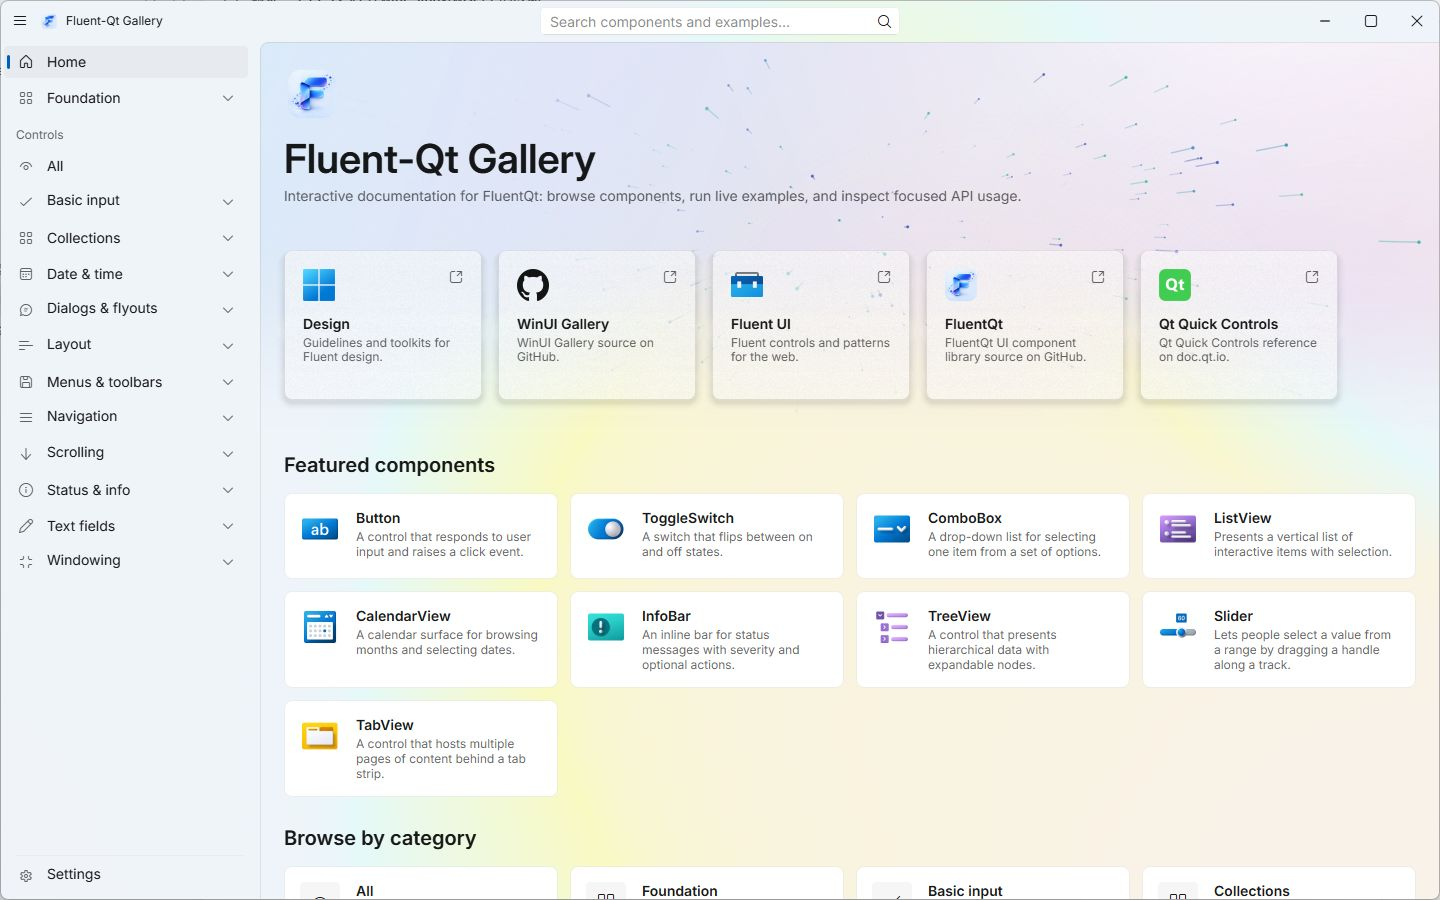
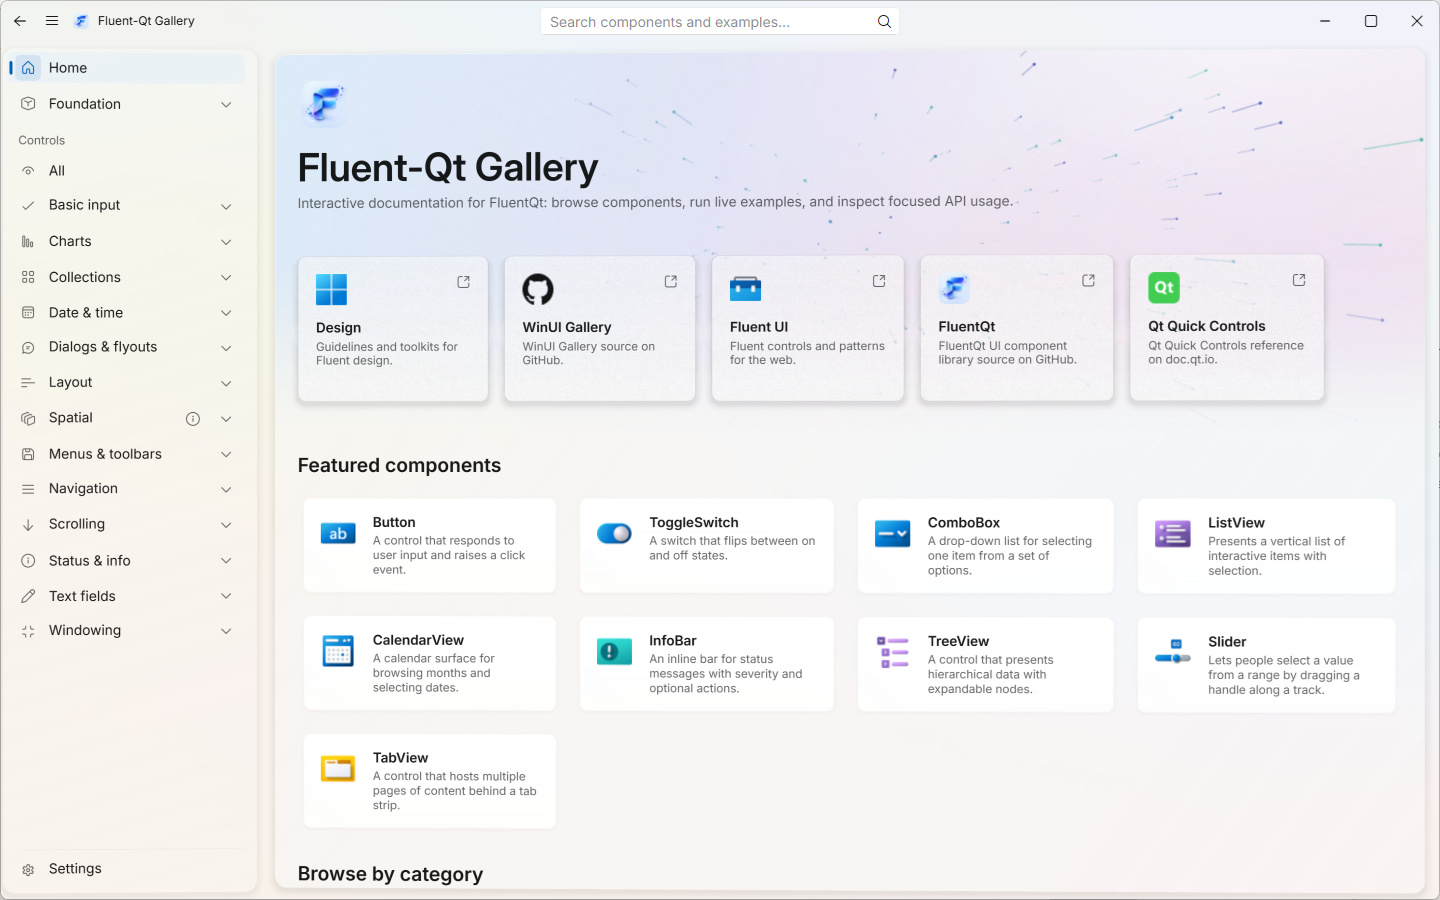
docs(site): refresh Windows 3D Gallery marketing assets

diff --git a/site/zh-CN/index.html b/site/zh-CN/index.html
@@ -25,7 +25,7 @@
     <meta property="og:url" content="https://calvinhxx.github.io/Fluent-Qt/zh-CN/">
     <meta property="og:locale" content="zh_CN">
     <meta property="og:locale:alternate" content="en_US">
-    <meta property="og:image" content="https://calvinhxx.github.io/Fluent-Qt/assets/og.png?v=bc0a71a1892e">
+    <meta property="og:image" content="https://calvinhxx.github.io/Fluent-Qt/assets/og.png?v=0df0210f651e">
     <meta property="og:image:type" content="image/png">
     <meta property="og:image:width" content="1731">
     <meta property="og:image:height" content="909">
@@ -36,7 +36,7 @@
       name="twitter:description"
       content="FluentQt（Fluent-Qt）是面向 Qt Widgets 的 C++17 Fluent UI 控件库，支持 Qt 5/6、可选 PySide6 绑定和 WebAssembly。在线体验 Gallery，查看 API 与接入示例。"
     >
-    <meta name="twitter:image" content="https://calvinhxx.github.io/Fluent-Qt/assets/og.png?v=bc0a71a1892e">
+    <meta name="twitter:image" content="https://calvinhxx.github.io/Fluent-Qt/assets/og.png?v=0df0210f651e">
     <meta name="twitter:image:alt" content="Fluent-Qt Gallery 项目预览，展示原生 Qt Widgets 控件。">
     <meta name="fluent-qt-cloudflare-token" content="faf445759813451ca2d7a0652139b292">
     <link rel="icon" href="../assets/app-icon.png?v=6bb48ccbdf19">
@@ -59,7 +59,7 @@
             ],
             "version": "1.9.1",
             "license": "https://github.com/calvinhxx/Fluent-Qt/blob/main/LICENSE",
-            "image": "https://calvinhxx.github.io/Fluent-Qt/assets/og.png?v=bc0a71a1892e",
+            "image": "https://calvinhxx.github.io/Fluent-Qt/assets/og.png?v=0df0210f651e",
             "inLanguage": "zh-CN",
             "sameAs": [
               "https://github.com/calvinhxx/Fluent-Qt",
@@ -228,9 +228,9 @@
               data-analytics-event="hero_visual_gallery"
             >
               <img
-                src="../assets/gallery/gallery-home-real.png?v=4ffb5f74ded2"
-                data-theme-src-light="../assets/gallery/gallery-home-real.png?v=4ffb5f74ded2"
-                data-theme-src-dark="../assets/gallery/gallery-home-dark.png?v=3f7c83c9a9f9"
+                src="../assets/gallery/gallery-home-real.png?v=b885a0fc143b"
+                data-theme-src-light="../assets/gallery/gallery-home-real.png?v=b885a0fc143b"
+                data-theme-src-dark="../assets/gallery/gallery-home-dark.png?v=a24d8882ccf6"
                 alt="Windows Mica 效果下的 Fluent-Qt Gallery 首页，展示控件分类和示例"
                 data-i18n-alt="images.hero"
                 width="1440"
@@ -340,7 +340,7 @@
             <div class="live-gallery-viewport">
               <img
                 class="live-gallery-poster"
-                src="../assets/gallery/gallery-hero-real.png?v=c95ba56bcffd"
+                src="../assets/gallery/gallery-hero-real.png?v=87543f4d70cf"
                 alt="C++ Web Gallery 加载前预览"
                 data-i18n-alt="images.webGallery"
                 width="1600"
@@ -500,9 +500,9 @@
           <div class="showcase-feature" data-reveal>
             <figure class="showcase-media">
               <img
-                src="../assets/gallery/gallery-button-real.png?v=1a157ef42b6b"
-                data-theme-src-light="../assets/gallery/gallery-button-real.png?v=1a157ef42b6b"
-                data-theme-src-dark="../assets/gallery/gallery-button-dark.png?v=74b53b0df684"
+                src="../assets/gallery/gallery-button-real.png?v=e9826ce22e52"
+                data-theme-src-light="../assets/gallery/gallery-button-real.png?v=e9826ce22e52"
+                data-theme-src-dark="../assets/gallery/gallery-button-dark.png?v=f0c29a7dbc02"
                 alt="Windows Mica 效果下的 Fluent-Qt Gallery Button 控件页面"
                 data-i18n-alt="images.button"
                 width="1440"
@@ -526,9 +526,9 @@
             <article>
               <figure class="showcase-media">
                 <img
-                  src="../assets/gallery/gallery-collections-real.png?v=05a7cc8069a1"
-                  data-theme-src-light="../assets/gallery/gallery-collections-real.png?v=05a7cc8069a1"
-                  data-theme-src-dark="../assets/gallery/gallery-collections-dark.png?v=b7442d6817ff"
+                  src="../assets/gallery/gallery-collections-real.png?v=a7e369fbdef4"
+                  data-theme-src-light="../assets/gallery/gallery-collections-real.png?v=a7e369fbdef4"
+                  data-theme-src-dark="../assets/gallery/gallery-collections-dark.png?v=49e756703117"
                   alt="Windows Mica 效果下的 Fluent-Qt Gallery 集合视图页面"
                   data-i18n-alt="images.collections"
                   width="1440"
@@ -542,9 +542,9 @@
             <article>
               <figure class="showcase-media">
                 <img
-                  src="../assets/gallery/gallery-home-real.png?v=4ffb5f74ded2"
-                  data-theme-src-light="../assets/gallery/gallery-home-real.png?v=4ffb5f74ded2"
-                  data-theme-src-dark="../assets/gallery/gallery-home-dark.png?v=3f7c83c9a9f9"
+                  src="../assets/gallery/gallery-home-real.png?v=b885a0fc143b"
+                  data-theme-src-light="../assets/gallery/gallery-home-real.png?v=b885a0fc143b"
+                  data-theme-src-dark="../assets/gallery/gallery-home-dark.png?v=a24d8882ccf6"
                   alt="Windows Mica 效果下的 Fluent-Qt Gallery 导航与窗口界面"
                   data-i18n-alt="images.system"
                   width="1440"

diff --git a/site/index.html b/site/index.html
@@ -25,7 +25,7 @@
     <meta property="og:url" content="https://calvinhxx.github.io/Fluent-Qt/">
     <meta property="og:locale" content="en_US">
     <meta property="og:locale:alternate" content="zh_CN">
-    <meta property="og:image" content="https://calvinhxx.github.io/Fluent-Qt/assets/og.png?v=bc0a71a1892e">
+    <meta property="og:image" content="https://calvinhxx.github.io/Fluent-Qt/assets/og.png?v=0df0210f651e">
     <meta property="og:image:type" content="image/png">
     <meta property="og:image:width" content="1731">
     <meta property="og:image:height" content="909">
@@ -36,7 +36,7 @@
       name="twitter:description"
       content="FluentQt (Fluent-Qt) is a C++17 Fluent UI library for Qt Widgets, with Qt 5/6, optional PySide6 bindings, and WebAssembly. Try the Gallery and setup examples."
     >
-    <meta name="twitter:image" content="https://calvinhxx.github.io/Fluent-Qt/assets/og.png?v=bc0a71a1892e">
+    <meta name="twitter:image" content="https://calvinhxx.github.io/Fluent-Qt/assets/og.png?v=0df0210f651e">
     <meta name="twitter:image:alt" content="Fluent-Qt Gallery project preview with native Qt Widgets controls.">
     <meta name="fluent-qt-cloudflare-token" content="faf445759813451ca2d7a0652139b292">
     <link rel="icon" href="assets/app-icon.png?v=6bb48ccbdf19">
@@ -59,7 +59,7 @@
             ],
             "version": "1.9.1",
             "license": "https://github.com/calvinhxx/Fluent-Qt/blob/main/LICENSE",
-            "image": "https://calvinhxx.github.io/Fluent-Qt/assets/og.png?v=bc0a71a1892e",
+            "image": "https://calvinhxx.github.io/Fluent-Qt/assets/og.png?v=0df0210f651e",
             "inLanguage": "en",
             "sameAs": [
               "https://github.com/calvinhxx/Fluent-Qt",
@@ -228,9 +228,9 @@
               data-analytics-event="hero_visual_gallery"
             >
               <img
-                src="assets/gallery/gallery-home-real.png?v=4ffb5f74ded2"
-                data-theme-src-light="assets/gallery/gallery-home-real.png?v=4ffb5f74ded2"
-                data-theme-src-dark="assets/gallery/gallery-home-dark.png?v=3f7c83c9a9f9"
+                src="assets/gallery/gallery-home-real.png?v=b885a0fc143b"
+                data-theme-src-light="assets/gallery/gallery-home-real.png?v=b885a0fc143b"
+                data-theme-src-dark="assets/gallery/gallery-home-dark.png?v=a24d8882ccf6"
                 alt="Fluent-Qt Gallery home on Windows with Mica, showing the control catalog and samples"
                 data-i18n-alt="images.hero"
                 width="1440"
@@ -340,7 +340,7 @@
             <div class="live-gallery-viewport">
               <img
                 class="live-gallery-poster"
-                src="assets/gallery/gallery-hero-real.png?v=c95ba56bcffd"
+                src="assets/gallery/gallery-hero-real.png?v=87543f4d70cf"
                 alt="C++ Web Gallery preview before loading"
                 data-i18n-alt="images.webGallery"
                 width="1600"
@@ -500,9 +500,9 @@
           <div class="showcase-feature" data-reveal>
             <figure class="showcase-media">
               <img
-                src="assets/gallery/gallery-button-real.png?v=1a157ef42b6b"
-                data-theme-src-light="assets/gallery/gallery-button-real.png?v=1a157ef42b6b"
-                data-theme-src-dark="assets/gallery/gallery-button-dark.png?v=74b53b0df684"
+                src="assets/gallery/gallery-button-real.png?v=e9826ce22e52"
+                data-theme-src-light="assets/gallery/gallery-button-real.png?v=e9826ce22e52"
+                data-theme-src-dark="assets/gallery/gallery-button-dark.png?v=f0c29a7dbc02"
                 alt="Button control page in Fluent-Qt Gallery on Windows with Mica"
                 data-i18n-alt="images.button"
                 width="1440"
@@ -526,9 +526,9 @@
             <article>
               <figure class="showcase-media">
                 <img
-                  src="assets/gallery/gallery-collections-real.png?v=05a7cc8069a1"
-                  data-theme-src-light="assets/gallery/gallery-collections-real.png?v=05a7cc8069a1"
-                  data-theme-src-dark="assets/gallery/gallery-collections-dark.png?v=b7442d6817ff"
+                  src="assets/gallery/gallery-collections-real.png?v=a7e369fbdef4"
+                  data-theme-src-light="assets/gallery/gallery-collections-real.png?v=a7e369fbdef4"
+                  data-theme-src-dark="assets/gallery/gallery-collections-dark.png?v=49e756703117"
                   alt="Collections page in Fluent-Qt Gallery on Windows with Mica"
                   data-i18n-alt="images.collections"
                   width="1440"
@@ -542,9 +542,9 @@
             <article>
               <figure class="showcase-media">
                 <img
-                  src="assets/gallery/gallery-home-real.png?v=4ffb5f74ded2"
-                  data-theme-src-light="assets/gallery/gallery-home-real.png?v=4ffb5f74ded2"
-                  data-theme-src-dark="assets/gallery/gallery-home-dark.png?v=3f7c83c9a9f9"
+                  src="assets/gallery/gallery-home-real.png?v=b885a0fc143b"
+                  data-theme-src-light="assets/gallery/gallery-home-real.png?v=b885a0fc143b"
+                  data-theme-src-dark="assets/gallery/gallery-home-dark.png?v=a24d8882ccf6"
                   alt="Navigation and window UI in Fluent-Qt Gallery on Windows with Mica"
                   data-i18n-alt="images.system"
                   width="1440"

diff --git a/tools/site/promo-assets.html b/tools/site/promo-assets.html
@@ -40,7 +40,8 @@
         box-shadow: 0 22px 4px -4px #193248, 0 35px 18px -10px #17304780;
       }
 
-      .readme-window img {
+      .readme-window :is(img, canvas) {
+        display: block;
         width: 1232px;
         height: 770px;
         border-radius: 24px;
@@ -163,7 +164,7 @@
   <body>
     <section class="readme" id="readme" aria-label="Gallery preview">
       <figure class="readme-window">
-        <img src="../../site/assets/gallery/gallery-home-real.png" width="1440" height="900" alt="Fluent-Qt Gallery home on Windows with Mica">
+        <img src="../../site/assets/gallery/gallery-home-real.png" width="1440" height="900" alt="Fluent-Qt Gallery home in 3D mode on Windows with Mica">
       </figure>
     </section>
     <section class="social" id="social" aria-label="Fluent-Qt">
@@ -175,7 +176,7 @@
       </div>
       <div class="product">
         <figure class="product-window">
-          <img src="../../site/assets/gallery/gallery-home-real.png" width="1440" height="900" alt="Fluent-Qt Gallery home on Windows with Mica">
+          <img src="../../site/assets/gallery/gallery-home-real.png" width="1440" height="900" alt="Fluent-Qt Gallery home in 3D mode on Windows with Mica">
         </figure>
       </div>
     </section>

diff --git a/tools/site/generate_promo_assets.py b/tools/site/generate_promo_assets.py
@@ -32,6 +32,20 @@ def main() -> int:
             page.goto((root / "tools/site/promo-assets.html").as_uri())
             page.evaluate("document.fonts.ready")
             page.evaluate("Promise.all([...document.images].map(image => image.decode()))")
+            # Choose high-quality downsampling at the framed image's final
+            # pixel size; keep the native PNG and output dimensions unchanged.
+            page.locator("#readme img").evaluate("""image => {
+                const canvas = document.createElement('canvas');
+                canvas.width = image.clientWidth;
+                canvas.height = image.clientHeight;
+                canvas.setAttribute('role', 'img');
+                canvas.setAttribute('aria-label', image.alt);
+                const context = canvas.getContext('2d');
+                context.imageSmoothingEnabled = true;
+                context.imageSmoothingQuality = 'high';
+                context.drawImage(image, 0, 0, canvas.width, canvas.height);
+                image.replaceWith(canvas);
+            }""")
             for selector, paths in (
                 ("#readme", ("docs/assets/readme/hero.png", "site/assets/gallery/gallery-hero-real.png")),
                 ("#social", ("site/assets/og.png",)),

diff --git a/docs/development/site-workflow.md b/docs/development/site-workflow.md
@@ -67,18 +67,22 @@ blur filters: their cost grows quickly with density.
 
 ## Gallery screenshots
 
-Use the current **Windows native Gallery with Mica** for README and first-party
+Use the current **Windows native Gallery with 3D enabled and Mica** for README and first-party
 website product images. Build `fluent_qt_gallery` using the
 [build workflow](build-workflow.md). Capture the real composed window in Light
 and Dark at 1440×900, with the Windows caption buttons visible. Keep third-party
 case-study images in their original platform and do not add simulated window
 chrome or a painted Mica background.
 
-In Gallery Settings, select Mica as the window effect and choose the required
-theme. Keep the window active and unmaximized, wait for the splash and navigation
+In Gallery Settings, enable **3D Gallery**, select Mica as the window effect,
+and choose the required theme. Verify that 3D is active, not a fallback; the
+Spatial navigation category alone does not establish this. Keep the window active
+and unmaximized, wait for the splash and navigation
 animations to finish, and move the pointer outside the captured window. Use
-Windows Graphics Capture (for example, Computer Use's native window capture),
-not `QWidget::grab()`: Mica is supplied by the desktop compositor. The
+an OS-composited, lossless PNG capture, not a compressed automation preview or
+`QWidget::grab()`: Mica is supplied by the desktop compositor. For example,
+copy the active window with Alt+Print Screen and save it as PNG in Paint without
+resizing. Check the saved file for cursor indicators and transient overlays. The
 `PythonParityVisualCheck` and `FoundationVisualCheck` fixtures deliberately use
 `BackdropEffect::Solid` for deterministic test snapshots; they are not the source
 for these marketing images. Restore any capture-only changes to local Gallery
@@ -92,8 +96,15 @@ home JPEGs at `docs/assets/readme/gallery-home.jpg` and
 `site/assets/gallery-home.jpg` synchronized with the Light home capture. Preserve
 the captured pixels when converting formats; do not retouch native controls.
 
-The current set was captured on Windows with Qt 6.9.3 from revision `8dfba78f`
-on 2026-09-16. Both Home captures use the Gallery's Starfield particle effect.
+The current set was recaptured on 2026-09-29 from a local Release build of Gallery
+1.9.1 (rendering sources now recorded in `143bdbfa`) with Qt 6.9.3, at
+1440×900 with 3D and Mica enabled. All ten Light/Dark PNGs and the Home-derived
+artwork use these new captures; none reuse the earlier soft 3D frames.
+Home retains its live particle background. The PNGs preserve the native capture
+pixels; do not resize or stretch source material. A 4K display is not required.
+Use Home for the hero, README, loading poster, and sharing card, not a Spatial
+component demonstration. Compare old and new material at the same display size;
+image dimensions alone do not establish text sharpness.
 
 The README, Gallery loading poster, and sharing card use designed compositions.
 Keep the README's frame, spacing, and shadow; keep the sharing card's brand,
@@ -106,7 +117,10 @@ python3 -m playwright install chromium
 python3 tools/site/generate_promo_assets.py
 ```
 
-The renderer uses the Light home capture and bundled Inter fonts. It produces
+The renderer uses the Light home capture and bundled Inter fonts. It downsamples
+the README's embedded capture once with high-quality filtering at its final
+1232×770 size, leaving the source PNG untouched. This does not remove softness
+already present in the native 3D rendering. It produces
 the 1600×900 README image and matching loading poster, plus a separate
 1731×909 `site/assets/og.png`. Use `--output-root /tmp/fluentqt-promo-review`
 to preview them before replacement. Do not copy a raw screenshot over these

diff --git a/README.md b/README.md
@@ -24,7 +24,7 @@
 </p>
 
 <p align="center">
-  <a href="https://calvinhxx.github.io/Fluent-Qt/#top"><img src="docs/assets/readme/hero.png" alt="Fluent-Qt Gallery on Windows with Mica"></a>
+  <a href="https://calvinhxx.github.io/Fluent-Qt/#top"><img src="docs/assets/readme/hero.png" alt="Fluent-Qt Gallery Home in 3D mode on Windows with Mica"></a>
 </p>
 
 <p align="center">
@@ -187,17 +187,9 @@ python3 tools/dev/fluent_qt_build.py build/fluentqt --target fluent_qt_source_pa
 
 ### Optional Spatial module
 
-[Spatial](docs/architecture/spatial-view.md) lets you tilt, rotate, and position
-existing widgets at different depths. It is an optional 3D extension; ordinary
-2D applications do not need to enable it.
-
-To try it, open the C++, Python or WebAssembly Gallery. Turn on Settings → 3D
-Gallery, then visit Controls → Spatial for interactive examples.
-
-For your own application, link `FluentQt::Spatial` in C++, or enable the module
-in a [Python source build](bindings/pyside6/README.md#optional-spatial-module).
-Desktop builds use OpenGL; WebAssembly uses WebGL. Gallery automatically uses
-the 2D interface when the required graphics acceleration is unavailable.
+[Spatial](docs/architecture/spatial-view.md) adds optional tilt, rotation and
+depth to existing widgets. Try it in Gallery via Settings → 3D Gallery;
+ordinary 2D applications are unaffected.
 
 ### WebAssembly
 

diff --git a/README.zh-CN.md b/README.zh-CN.md
@@ -24,7 +24,7 @@
 </p>
 
 <p align="center">
-  <a href="https://calvinhxx.github.io/Fluent-Qt/zh-CN/#top"><img src="docs/assets/readme/hero.png" alt="Windows 下使用 Mica 效果的 Fluent-Qt Gallery"></a>
+  <a href="https://calvinhxx.github.io/Fluent-Qt/zh-CN/#top"><img src="docs/assets/readme/hero.png" alt="Windows Mica 效果下开启 3D 模式的 Fluent-Qt Gallery Home 首页"></a>
 </p>
 
 <p align="center">
@@ -183,11 +183,7 @@ python3 tools/dev/fluent_qt_build.py build/fluentqt --target fluent_qt_source_pa
 
 ### 可选 Spatial 模块
 
-[Spatial](docs/architecture/spatial-view.md) 可让现有控件倾斜、旋转，并呈现远近层次。它是可选的 3D 扩展，普通 2D 应用无需启用。
-
-想先看效果，可以打开 C++、Python 或 WebAssembly Gallery，在 Settings → 3D Gallery 打开开关，再到 Controls → Spatial 操作示例。
-
-接入自己的应用时，C++ 链接 `FluentQt::Spatial`；Python 需要[从源码构建并启用该模块](bindings/pyside6/README.md#optional-spatial-module)。桌面端使用 OpenGL，WebAssembly 使用 WebGL。设备无法提供所需的图形加速时，Gallery 自动使用 2D 界面。
+[Spatial](docs/architecture/spatial-view.md) 为现有控件提供可选的倾斜、旋转和纵深效果。在 Gallery 的 Settings → 3D Gallery 中开启体验，不影响普通 2D 应用。
 
 ### WebAssembly
 
